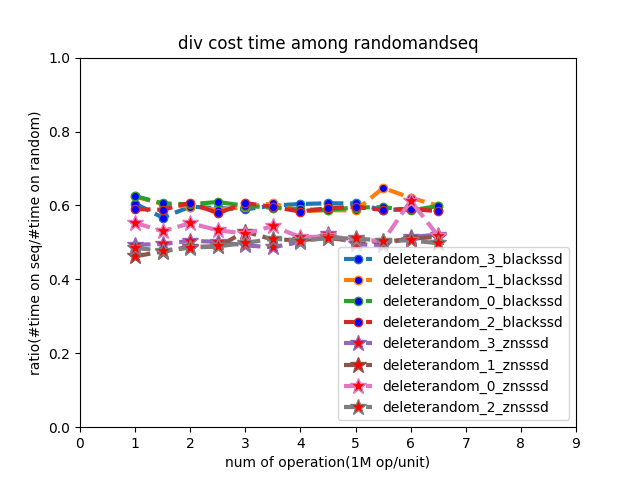
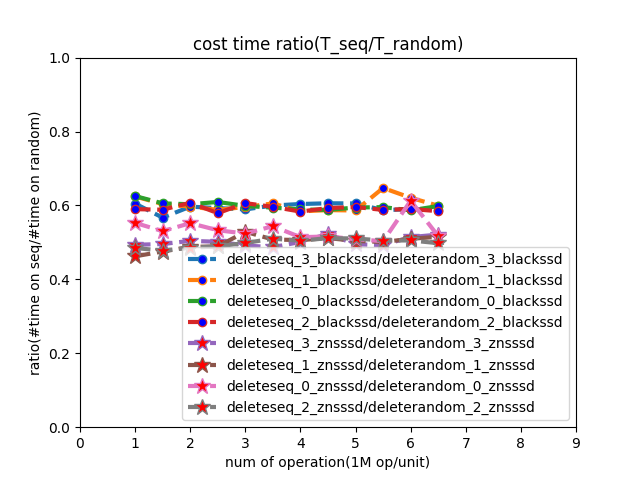
finish write/read/delete/update/append/readmixwrite x 4compaction x (zns+blackssd) x (all+samessd+diffssd+WAL+compaction)

Changed region(s): [[0.2812, 0.5, 0.875, 0.875], [0.2812, 0.0625, 0.75, 0.125], [0.7812, 0.5312, 0.8438, 0.5625]]

diff --git a/drawCompaction.py b/drawCompaction.py
@@ -162,7 +162,7 @@ if __name__ == '__main__':
             ybar = [ele for _,ele in sorted(zip(x,y))]
             xbar = sorted(x)
             if dirName.split('_')[-1] == 'blackssd':
-                plt.plot(xbar, ybar, linestyle='dashed', linewidth=3, marker='o', markerfacecolor='blue', markersize=12, label=str(key))
+                plt.plot(xbar, ybar, linestyle='dashed', linewidth=3, marker='d', markerfacecolor='blue', markersize=12, label=str(key))
                 differ[str(key)] = [ybar, xbar]
             else:
                 ks = [str(ele) for ele in key.split('_')[:-1]]
@@ -172,7 +172,7 @@ if __name__ == '__main__':
                         difKey = ele
                     else: difKey= difKey + '_' + ele
                 difKey = difKey + '_' + 'znsssd'
-                plt.plot(xbar, ybar, linestyle='dashed', linewidth=3, marker='H', markerfacecolor='red', markersize=12, label=str(difKey))
+                plt.plot(xbar, ybar, linestyle='dashed', linewidth=3, marker='s', markerfacecolor='red', markersize=12, label=str(difKey))
                 differ[difKey] = [ybar, xbar]
             
     genFigName = 'compactionRatio' + str(dirName)
@@ -186,11 +186,47 @@ if __name__ == '__main__':
         os.makedirs(processedRes)
     plt.savefig(processedRes+genFigName)
     plt.show()
-        
+    
+    
+    print('enter  div different ssd')
+    for key in differ:
+        print(key)
+        if key.split('_')[-1] == 'blackssd':
+            print('zz')
+            ks = [str(ele) for ele in key.split('_')[:-1]]
+            difKey = ''
+            for ele in ks:
+                if difKey == '':
+                    difKey = ele
+                else: difKey= difKey + '_' + ele
+            difKey = difKey + '_' + 'znsssd'
+            
+            
+            y = differ[key][0]
+            x = differ[key][1]
+            z = []
+            for i in range(0, len(x)):
+                z.append((differ[difKey][0][i] + 0.000001)/ (y[i] + 0.000001))
+            if ks[0][0] == 'a':
+                plt.plot(x, z, linestyle='dashed', linewidth=3, marker='d', markerfacecolor='red', markersize=12, label=difKey + '/' +key)
+            else:
+                plt.plot(x, z, linestyle='dashed', linewidth=3, marker='s', markerfacecolor='blue', markersize=12, label=difKey + '/' +key)
+    plt.title('compacting ratio(R_zns/R_blackssd) in same benchmark')
+    plt.axhline(y = 1, color = 'g', linestyle = '-')
+    plt.legend()
+    plt.axis([0,9,0,3])
+    plt.xlabel('num of operation(1M op/unit)')
+    plt.ylabel('ratio(#time on zns/#time on blackssd)')
+    genFigName = 'divTime_zns_by_blackssd_' + str(dirName)
+    processedRes = str(os.getcwd()) + '/everyssdFig/'
+    plt.savefig(processedRes+genFigName)
+    plt.show()
+    
+    
     print('enter div same ssd')
     for key in differ:
         print(key)
-        if key.split('_')[0] == 'fillrandom':
+        if key.split('_')[0] == 'updaterandom':
             print('zz')
             ks = [str(ele) for ele in key.split('_')[1:]]
             difKey = ''
@@ -198,20 +234,21 @@ if __name__ == '__main__':
                 if difKey == '':
                     difKey = ele
                 else: difKey= difKey + '_' + ele
-            difKey = 'fillseq' + '_' + difKey
+            difKey = 'appendrandom' + '_' + difKey
             
             
             y = differ[key][0]
             x = differ[key][1]
             z = []
             for i in range(0, len(x)):
-                z.append(differ[difKey][0][i] / y[i])
+                z.append((differ[difKey][0][i] + 0.000001)/ (y[i] + 0.000001))
             print(x,y)
             if ks[-1] == 'znsssd':
-                plt.plot(x, z, linestyle='dashed', linewidth=3, marker='*', markerfacecolor='red', markersize=12, label=key)
+                plt.plot(x, z, linestyle='dashed', linewidth=3, marker='*', markerfacecolor='red', markersize=12, label = difKey + '/' + key)
             else:
-                plt.plot(x, z, linestyle='dashed', linewidth=3, marker='.', markerfacecolor='blue', markersize=12, label=key)
+                plt.plot(x, z, linestyle='dashed', linewidth=3, marker='.', markerfacecolor='blue', markersize=12, label = difKey + '/' + key)
     plt.title('compaction ratio among same ssd on different benchmark')
+    plt.axhline(y = 1, color = 'g', linestyle = '-')
     plt.legend()
     plt.axis([0,14,0,2])
     plt.xlabel('num of operation(1M op/unit)')

diff --git a/drawDiff.py b/drawDiff.py
@@ -160,7 +160,7 @@ if __name__ == '__main__':
             ybar = [ele for _,ele in sorted(zip(x,y))]
             xbar = sorted(x)
             if dirName.split('_')[-1] == 'blackssd':
-                plt.plot(xbar, ybar, linestyle='dashed', linewidth=2, marker='d', markerfacecolor='blue', markersize=12, label=str(key))
+                plt.plot(xbar, ybar, linestyle='dashed', linewidth=3, marker='d', markerfacecolor='blue', markersize=12, label=str(key))
                 differ[str(key)] = [ybar, xbar]
             else:
                 ks = [str(ele) for ele in key.split('_')[:-1]]
@@ -170,12 +170,12 @@ if __name__ == '__main__':
                         difKey = ele
                     else: difKey= difKey + '_' + ele
                 difKey = difKey + '_' + 'znsssd'
-                plt.plot(xbar, ybar, linestyle='dashed', linewidth=2, marker='s', markerfacecolor='red', markersize=12, label=str(difKey))
+                plt.plot(xbar, ybar, linestyle='dashed', linewidth=3, marker='s', markerfacecolor='red', markersize=12, label=str(difKey))
                 differ[difKey] = [ybar, xbar]
             
     genFigName = 'combine_' + str(dirName)
     plt.title(genFigName)
-    plt.axis([0,9,0,17])
+    plt.axis([0,9,0,180])
     plt.legend()
     plt.xlabel('num of operation(1M op/unit)')
     plt.ylabel('time(1 s/unit)')
@@ -205,11 +205,11 @@ if __name__ == '__main__':
             for i in range(0, len(x)):
                 z.append(differ[difKey][1][i] / y[i])
             print(x,y)
-            if ks[0][4] == 'r':
-                plt.plot(x, z, linestyle='dashed', linewidth=3, marker='*', markerfacecolor='red', markersize=12, label=ks[0])
+            if ks[0][0] == 'u':
+                plt.plot(x, z, linestyle='dashed', linewidth=3, marker='*', markerfacecolor='red', markersize=12, label=difKey+'/'+key)
             else:
-                plt.plot(x, z, linestyle='dashed', linewidth=3, marker='.', markerfacecolor='blue', markersize=12, label=ks[0])
-    plt.title('div cost time among zns and blackssd')
+                plt.plot(x, z, linestyle='dashed', linewidth=3, marker='.', markerfacecolor='blue', markersize=12, label=difKey+'/'+key)
+    plt.title('cost time ratio(T_zns/T_blackssd) in same benchmark')
     plt.legend()
     plt.axis([0,9,0,1])
     plt.xlabel('num of operation(1M op/unit)')
@@ -223,7 +223,7 @@ if __name__ == '__main__':
     print('enter div same ssd')
     for key in differ:
         print(key)
-        if key.split('_')[0] == 'fillrandom':
+        if key.split('_')[0] == 'updaterandom':
             print('zz')
             ks = [str(ele) for ele in key.split('_')[1:]]
             difKey = ''
@@ -231,7 +231,7 @@ if __name__ == '__main__':
                 if difKey == '':
                     difKey = ele
                 else: difKey= difKey + '_' + ele
-            difKey = 'fillseq' + '_' + difKey
+            difKey = 'appendrandom' + '_' + difKey
             
             
             y = differ[key][0]
@@ -241,12 +241,13 @@ if __name__ == '__main__':
                 z.append(differ[difKey][0][i] / y[i])
             print(x,y)
             if ks[-1] == 'znsssd':
-                plt.plot(x, z, linestyle='dashed', linewidth=3, marker='*', markerfacecolor='red', markersize=12, label=key)
+                plt.plot(x, z, linestyle='dashed', linewidth=3, marker='*', markerfacecolor='red', markersize=12, label=difKey+'/'+key)
             else:
-                plt.plot(x, z, linestyle='dashed', linewidth=3, marker='.', markerfacecolor='blue', markersize=12, label=key)
-    plt.title('div cost time among randomandseq')
+                plt.plot(x, z, linestyle='dashed', linewidth=3, marker='.', markerfacecolor='blue', markersize=12, label=difKey+'/'+key)
+    plt.title('cost time ratio(T_append/T_update) in same ssd')
+    plt.axhline(y = 1, color = 'g', linestyle = '-')
     plt.legend()
-    plt.axis([0,9,0,1])
+    plt.axis([0,9,0,2])
     plt.xlabel('num of operation(1M op/unit)')
     plt.ylabel('ratio(#time on seq/#time on random)')
     genFigName = 'divTime_random_by_seqwrite_' + str(dirName)

diff --git a/drawRead.py b/drawRead.py
@@ -160,7 +160,7 @@ if __name__ == '__main__':
             ybar = [ele for _,ele in sorted(zip(x,y))]
             xbar = sorted(x)
             if dirName.split('_')[-1] == 'blackssd':
-                plt.plot(xbar, ybar, linestyle='dashed', linewidth=2, marker='d', markerfacecolor='blue', markersize=12, label=str(key))
+                plt.plot(xbar, ybar, linestyle='dashed', linewidth=3, marker='d', markerfacecolor='blue', markersize=12, label=str(key))
                 differ[str(key)] = [ybar, xbar]
             else:
                 ks = [str(ele) for ele in key.split('_')[:-1]]
@@ -170,7 +170,7 @@ if __name__ == '__main__':
                         difKey = ele
                     else: difKey= difKey + '_' + ele
                 difKey = difKey + '_' + 'znsssd'
-                plt.plot(xbar, ybar, linestyle='dashed', linewidth=2, marker='s', markerfacecolor='red', markersize=12, label=str(difKey))
+                plt.plot(xbar, ybar, linestyle='dashed', linewidth=3, marker='s', markerfacecolor='red', markersize=12, label=str(difKey))
                 differ[difKey] = [ybar, xbar]
             
     genFigName = 'combine_' + str(dirName)
@@ -184,6 +184,41 @@ if __name__ == '__main__':
         os.makedirs(processedRes)
     plt.savefig(processedRes+genFigName)
     plt.show()
+    
+    print('enter  div different ssd')
+    for key in differ:
+        print(key)
+        if key.split('_')[-1] == 'blackssd':
+            print('zz')
+            ks = [str(ele) for ele in key.split('_')[:-1]]
+            difKey = ''
+            for ele in ks:
+                if difKey == '':
+                    difKey = ele
+                else: difKey= difKey + '_' + ele
+            difKey = difKey + '_' + 'znsssd'
+            
+            
+            y = differ[key][0]
+            x = differ[key][1]
+            z = []
+            for i in range(0, len(x)):
+                z.append((differ[difKey][1][i]+0.000001) / (y[i]+0.000001))
+            print(x,y)
+            if ks[0][4] == 'r':
+                plt.plot(x, z, linestyle='dashed', linewidth=3, marker='*', markerfacecolor='red', markersize=12, label=difKey+'/'+key)
+            else:
+                plt.plot(x, z, linestyle='dashed', linewidth=3, marker='.', markerfacecolor='blue', markersize=12, label=difKey+'/'+key)
+    plt.title('cost time ratio(T_zns/T_blackssd) in same benchmark')
+    plt.legend()
+    plt.axis([0,9,0,1])
+    plt.xlabel('num of operation(1M op/unit)')
+    plt.ylabel('ratio(#time on zns/#time on blackssd)')
+    genFigName = 'divTime_zns_by_blackssd_' + str(dirName)
+    processedRes = str(os.getcwd()) + '/everyssdFig/'
+    plt.savefig(processedRes+genFigName)
+    plt.show()
+    
         
     print('enter div same ssd')
     for key in differ:
@@ -205,10 +240,10 @@ if __name__ == '__main__':
                 z.append(differ[difKey][0][i] / y[i])
             print(x,z)
             if ks[-1] == 'znsssd':
-                plt.plot(x, z, linestyle='dashed', linewidth=3, marker='*', markerfacecolor='red', markersize=12, label=key)
+                plt.plot(x, z, linestyle='dashed', linewidth=3, marker='*', markerfacecolor='red', markersize=12, label=difKey+'/'+key)
             else:
-                plt.plot(x, z, linestyle='dashed', linewidth=3, marker='.', markerfacecolor='blue', markersize=12, label=key)
-    plt.title('div cost time among randomandseq')
+                plt.plot(x, z, linestyle='dashed', linewidth=3, marker='.', markerfacecolor='blue', markersize=12, label=difKey+'/'+key)
+    plt.title('cost time ratio(T_seq/T_random) in same ssd')
     plt.legend()
     plt.axis([0,9,0,1])
     plt.xlabel('num of operation(1M op/unit)')

diff --git a/drawDelete.py b/drawDelete.py
@@ -160,7 +160,7 @@ if __name__ == '__main__':
             ybar = [ele for _,ele in sorted(zip(x,y))]
             xbar = sorted(x)
             if dirName.split('_')[-1] == 'blackssd':
-                plt.plot(xbar, ybar, linestyle='dashed', linewidth=2, marker='o', markerfacecolor='blue', markersize=12, label=str(key))
+                plt.plot(xbar, ybar, linestyle='dashed', linewidth=3, marker='o', markerfacecolor='blue', markersize=12, label=str(key))
                 differ[str(key)] = [ybar, xbar]
             else:
                 ks = [str(ele) for ele in key.split('_')[:-1]]
@@ -170,7 +170,7 @@ if __name__ == '__main__':
                         difKey = ele
                     else: difKey= difKey + '_' + ele
                 difKey = difKey + '_' + 'znsssd'
-                plt.plot(xbar, ybar, linestyle='dashed', linewidth=2, marker='s', markerfacecolor='red', markersize=12, label=str(difKey))
+                plt.plot(xbar, ybar, linestyle='dashed', linewidth=3, marker='s', markerfacecolor='red', markersize=12, label=str(difKey))
                 differ[difKey] = [ybar, xbar]
             
     genFigName = 'combine_' + str(dirName)
@@ -206,10 +206,10 @@ if __name__ == '__main__':
             for i in range(0, len(x)):
                 z.append(differ[difKey][1][i] / y[i])
             if ks[0][6] == 'r':
-                plt.plot(x, z, linestyle='dashed', linewidth=3, marker='d', markerfacecolor='red', markersize=12, label=ks[0])
+                plt.plot(x, z, linestyle='dashed', linewidth=3, marker='d', markerfacecolor='red', markersize=12, label=difKey + '/' +key)
             else:
-                plt.plot(x, z, linestyle='dashed', linewidth=3, marker='s', markerfacecolor='blue', markersize=12, label=ks[0])
-    plt.title('div cost time among zns and blackssd')
+                plt.plot(x, z, linestyle='dashed', linewidth=3, marker='s', markerfacecolor='blue', markersize=12, label=difKey + '/' +key)
+    plt.title('cost time ratio(T_zns/T_blackssd)')
     plt.legend()
     plt.axis([0,9,0,1])
     plt.xlabel('num of operation(1M op/unit)')
@@ -239,10 +239,10 @@ if __name__ == '__main__':
             for i in range(0, len(x)):
                 z.append(differ[difKey][0][i] / y[i])
             if ks[-1] == 'znsssd':
-                plt.plot(x, z, linestyle='dashed', linewidth=3, marker='*', markerfacecolor='red', markersize=12, label=key)
+                plt.plot(x, z, linestyle='dashed', linewidth=3, marker='*', markerfacecolor='red', markersize=12, label=difKey + '/' +key)
             else:
-                plt.plot(x, z, linestyle='dashed', linewidth=3, marker='.', markerfacecolor='blue', markersize=12, label=key)
-    plt.title('div cost time among randomandseq')
+                plt.plot(x, z, linestyle='dashed', linewidth=3, marker='.', markerfacecolor='blue', markersize=12, label=difKey + '/' +key)
+    plt.title('cost time ratio(T_seq/T_random)')
     plt.legend()
     plt.axis([0,9,0,1])
     plt.xlabel('num of operation(1M op/unit)')

diff --git a/drawRWR.py b/drawRWR.py
@@ -207,12 +207,13 @@ if __name__ == '__main__':
                 z.append(differ[difKey][1][i] / y[i])
             print(x,y)
             if ks[0][4] == 'r':
-                plt.plot(x, z, linestyle='dashed', linewidth=3, marker='d', markerfacecolor='red', markersize=12, label=ks[0])
+                plt.plot(x, z, linestyle='dashed', linewidth=3, marker='d', markerfacecolor='red', markersize=12, label=difKey + '/' +key)
             else:
-                plt.plot(x, z, linestyle='dashed', linewidth=3, marker='s', markerfacecolor='blue', markersize=12, label=ks[0])
-    plt.title('div cost time among zns and blackssd')
+                plt.plot(x, z, linestyle='dashed', linewidth=3, marker='s', markerfacecolor='blue', markersize=12, label=difKey + '/' +key)
+    plt.axhline(y = 1, color = 'g', linestyle = '-')
+    plt.title('cost time ratio(T_zns/T_blackssd)')
     plt.legend()
-    plt.axis([0,9,0,2])
+    plt.axis([0,14,0,2])
     plt.xlabel('num of operation(1M op/unit)')
     plt.ylabel('ratio(#time on zns/#time on blackssd)')
     genFigName = 'divTime_zns_by_blackssd_' + str(dirName)
@@ -220,7 +221,7 @@ if __name__ == '__main__':
     plt.savefig(processedRes+genFigName)
     plt.show()
     
-    exit(1)
+    
         
     print('enter div same ssd')
     for key in differ:
@@ -243,15 +244,16 @@ if __name__ == '__main__':
                 z.append(differ[difKey][0][i] / y[i])
             print(x,y)
             if ks[-1] == 'znsssd':
-                plt.plot(x, z, linestyle='dashed', linewidth=3, marker='*', markerfacecolor='red', markersize=12, label=key)
+                plt.plot(x, z, linestyle='dashed', linewidth=3, marker='*', markerfacecolor='red', markersize=12, label=difKey + '/' +key)
             else:
-                plt.plot(x, z, linestyle='dashed', linewidth=3, marker='.', markerfacecolor='blue', markersize=12, label=key)
-    plt.title('div cost time among randomandseq')
+                plt.plot(x, z, linestyle='dashed', linewidth=3, marker='.', markerfacecolor='blue', markersize=12, label=difKey + '/' +key)
+    plt.axhline(y = 1, color = 'g', linestyle = '-')
+    plt.title('cost time ratio(T_seq/T_rand)')
     plt.legend()
-    plt.axis([0,9,0,1])
+    plt.axis([0,14,0,2])
     plt.xlabel('num of operation(1M op/unit)')
     plt.ylabel('ratio(#time on seq/#time on random)')
-    genFigName = 'divTime_random_delete_by_seq_delete_' + str(dirName)
+    genFigName = 'divTime_random_comb_by_seq_comb_' + str(dirName)
     processedRes = str(os.getcwd()) + '/everyssdFig/'
     plt.savefig(processedRes+genFigName)
     plt.show()

diff --git a/drawWAL.py b/drawWAL.py
@@ -161,8 +161,9 @@ if __name__ == '__main__':
 
             ybar = [ele for _,ele in sorted(zip(x,y))]
             xbar = sorted(x)
+            print(ybar,xbar)
             if dirName.split('_')[-1] == 'blackssd':
-                plt.plot(xbar, ybar, linestyle='dashed', linewidth=2, marker='d', markerfacecolor='blue', markersize=12, label=str(key))
+                plt.plot(xbar, ybar, linestyle='dashed', linewidth=3, marker='d', markerfacecolor='blue', markersize=12, label=str(key))
                 differ[str(key)] = [ybar, xbar]
             else:
                 ks = [str(ele) for ele in key.split('_')[:-1]]
@@ -172,7 +173,7 @@ if __name__ == '__main__':
                         difKey = ele
                     else: difKey= difKey + '_' + ele
                 difKey = difKey + '_' + 'znsssd'
-                plt.plot(xbar, ybar, linestyle='dashed', linewidth=2, marker='x', markerfacecolor='red', markersize=12, label=str(difKey))
+                plt.plot(xbar, ybar, linestyle='dashed', linewidth=3, marker='x', markerfacecolor='red', markersize=12, label=str(difKey))
                 differ[difKey] = [ybar, xbar]
             
     genFigName = 'WAL' + str(dirName)
